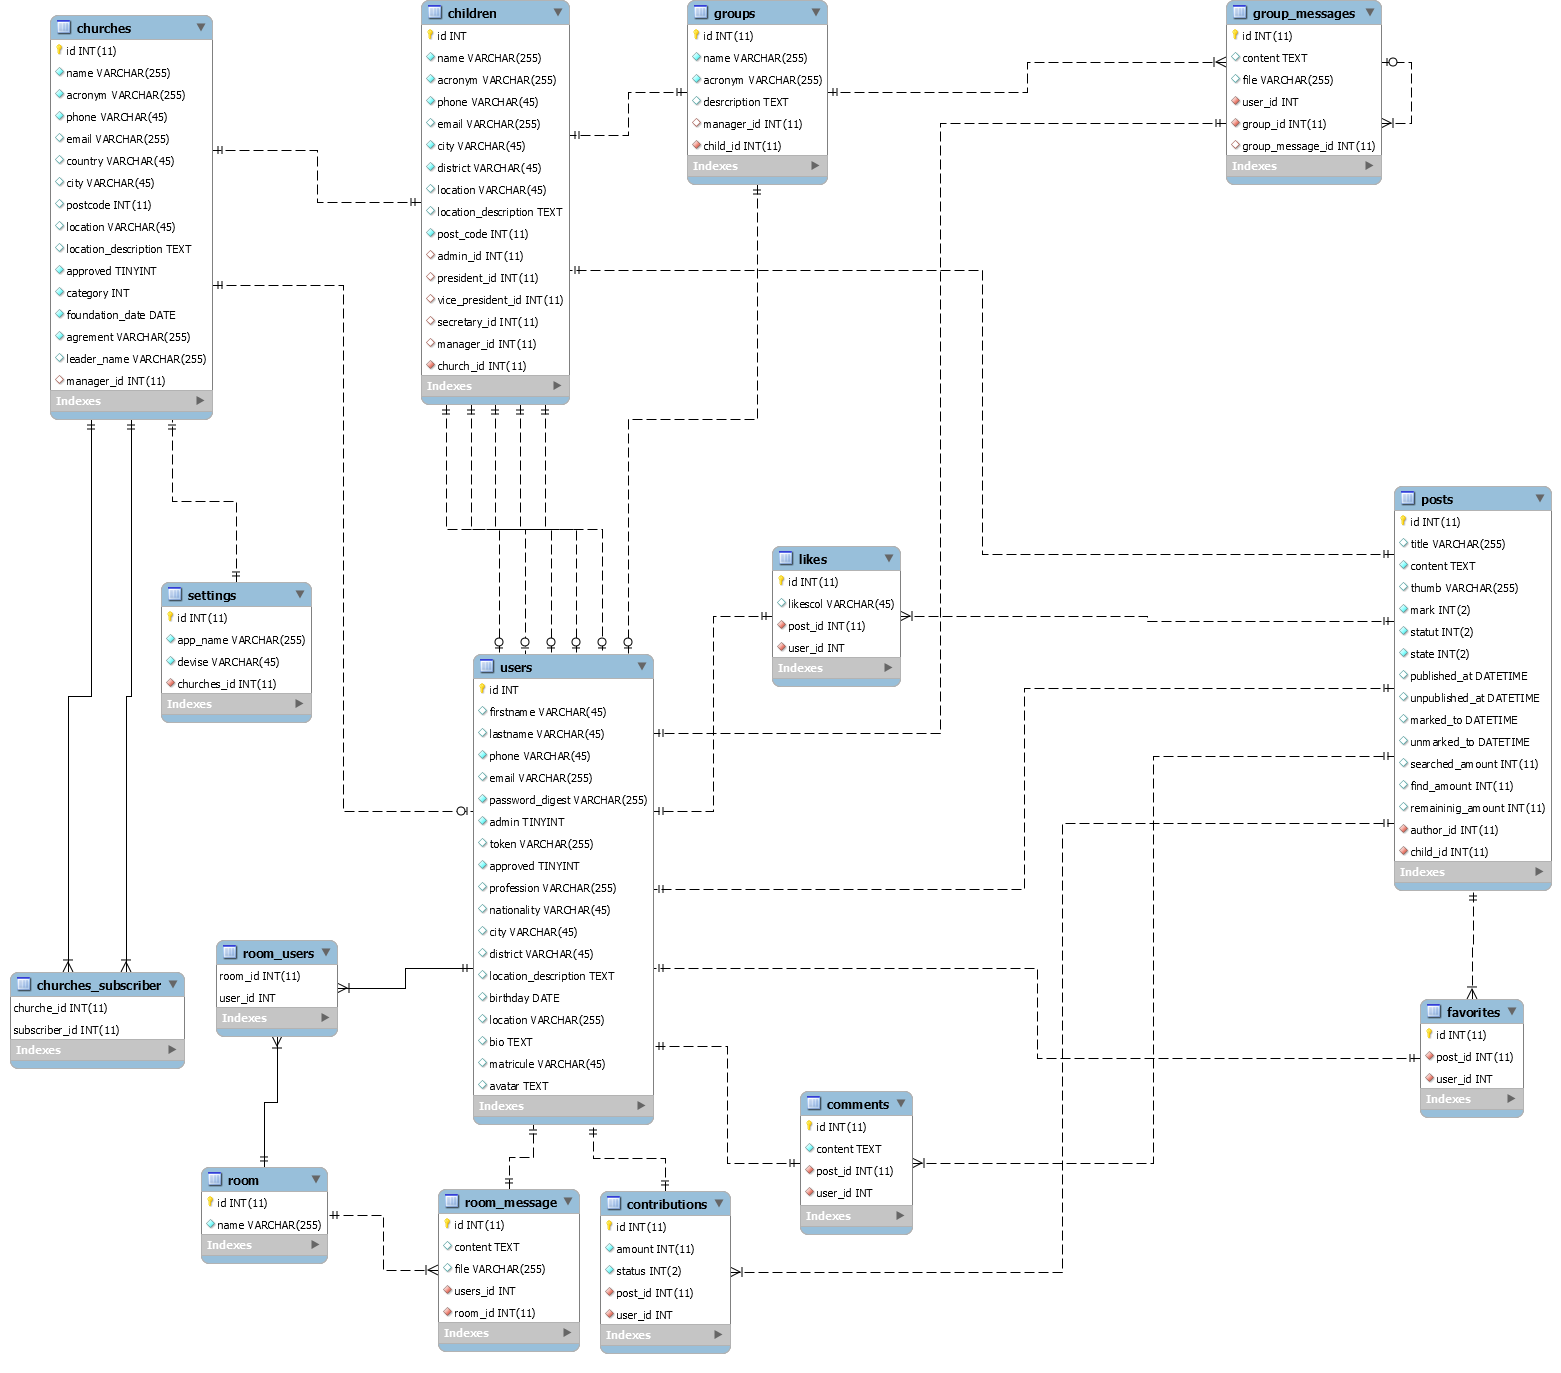
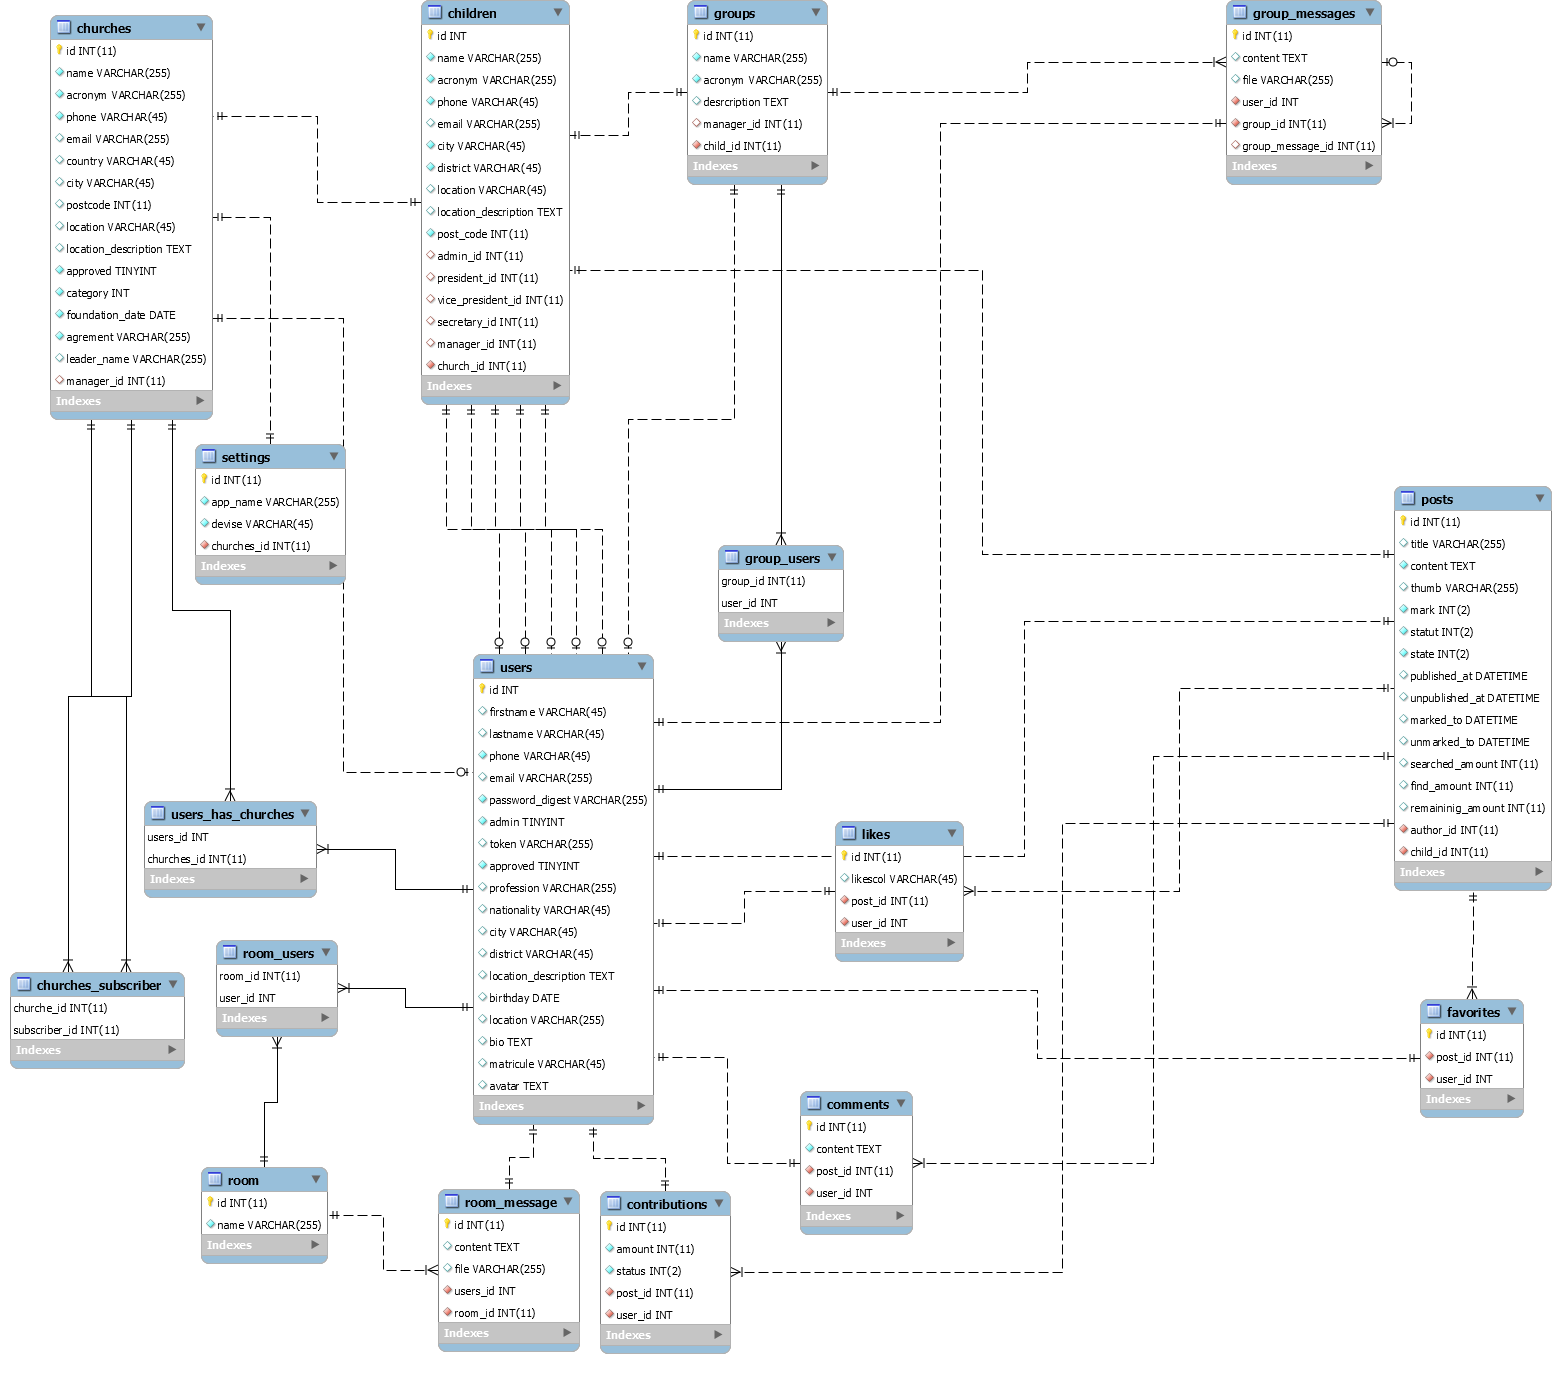
doc

diff --git a/README.md b/README.md
@@ -5,11 +5,20 @@
   - Ruby 2.6.5
   
 ### 2. Technologies
-  - Ajax comments
-  - Favorites
+  - #### Ajax comments
+    Thanks to ajax requests, users (church devotees) can comment on their church posts without reloading the post page. Once the comment is submitted, a webSocket event will be sent to update in real time the comments of all users who will have this publication page displayed on the screen.
+
+
+  - #### Favorites
+    The users, (church faithful can favor the publications they do not wish to lose in the max and also the publications of type events in which they wish to participate
+    
   
 ### 3. Other technologies
-  - WebSockets
+  - #### WebSockets
+    I use the webSocket to update in real time certain elements on the screen of all users (church faithful)
+    - When a user clicks like, all user's screen is updated
+    - When a user makes a comment, everyone else will get it in real time
+    - We will also use it for chat in church groups
 
 ### 5. shared files
   ###### [CATALOG DESIGN AND TABLE DEFINITION](https://docs.google.com/spreadsheets/d/11kvptQy_YhfZyh2LUTB9hzUpy8cjNbjusj1xo3lgPOs/edit?usp=sharing)
@@ -21,5 +30,7 @@
 
 
   #### ER diagram
-  [![image](ER.png)](https://drive.google.com/file/d/1GF0tYVWQ_nu0jWpgYCEBut3J2sZ5d23G/view?usp=sharing)
+  [MySQL Workbench ER Diagram](https://drive.google.com/file/d/1CGvpwK31TULrE3COJSewdzTVCTglhjNp/view?usp=sharing)
+  
+  [![image](ER.png)](https://drive.google.com/file/d/132wGWqFDlo86j-7yZ1EgiSr9JiQRy26b/view?usp=sharing)
     
